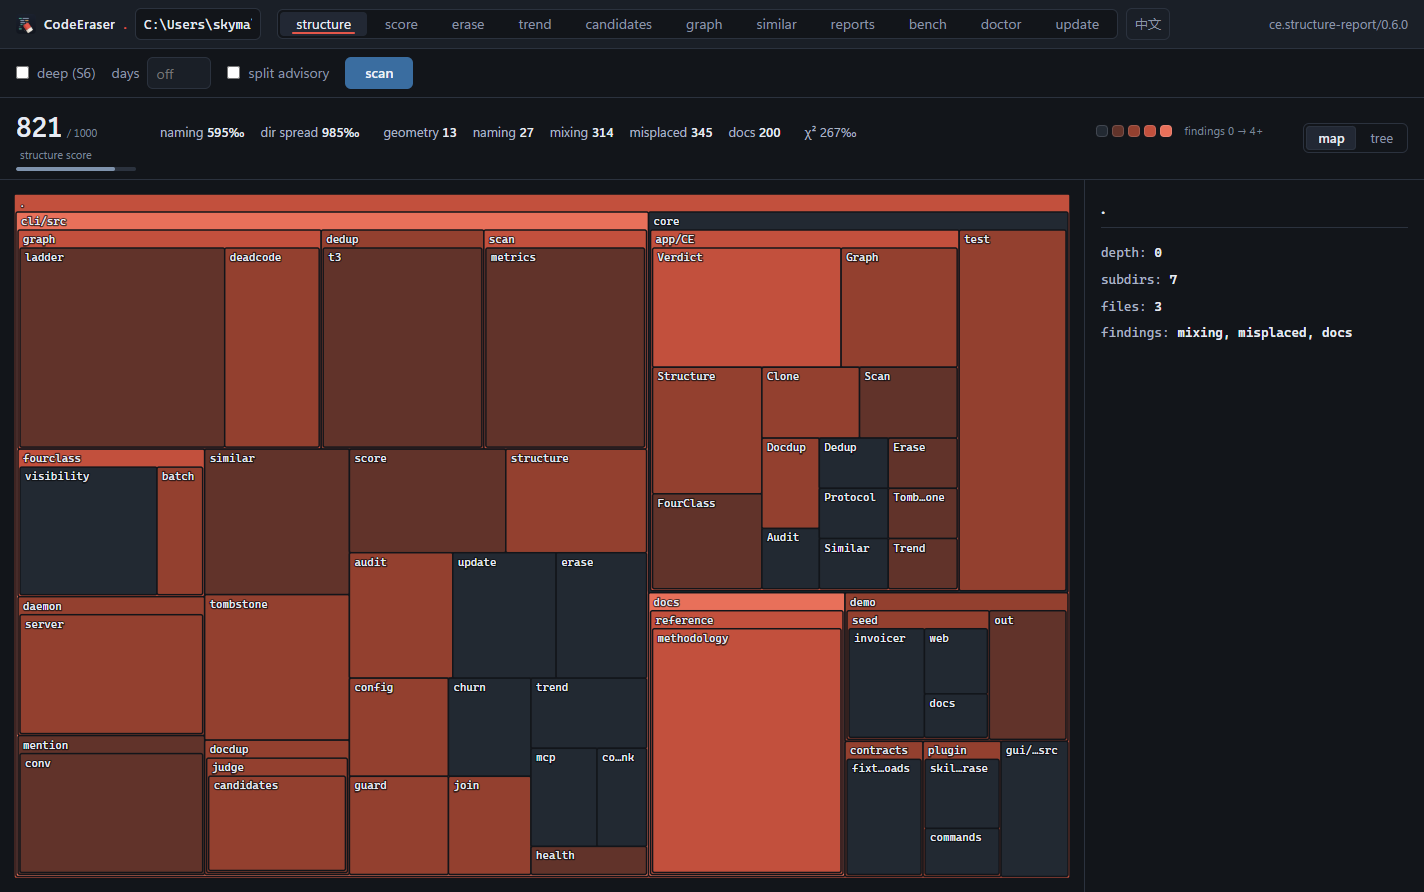
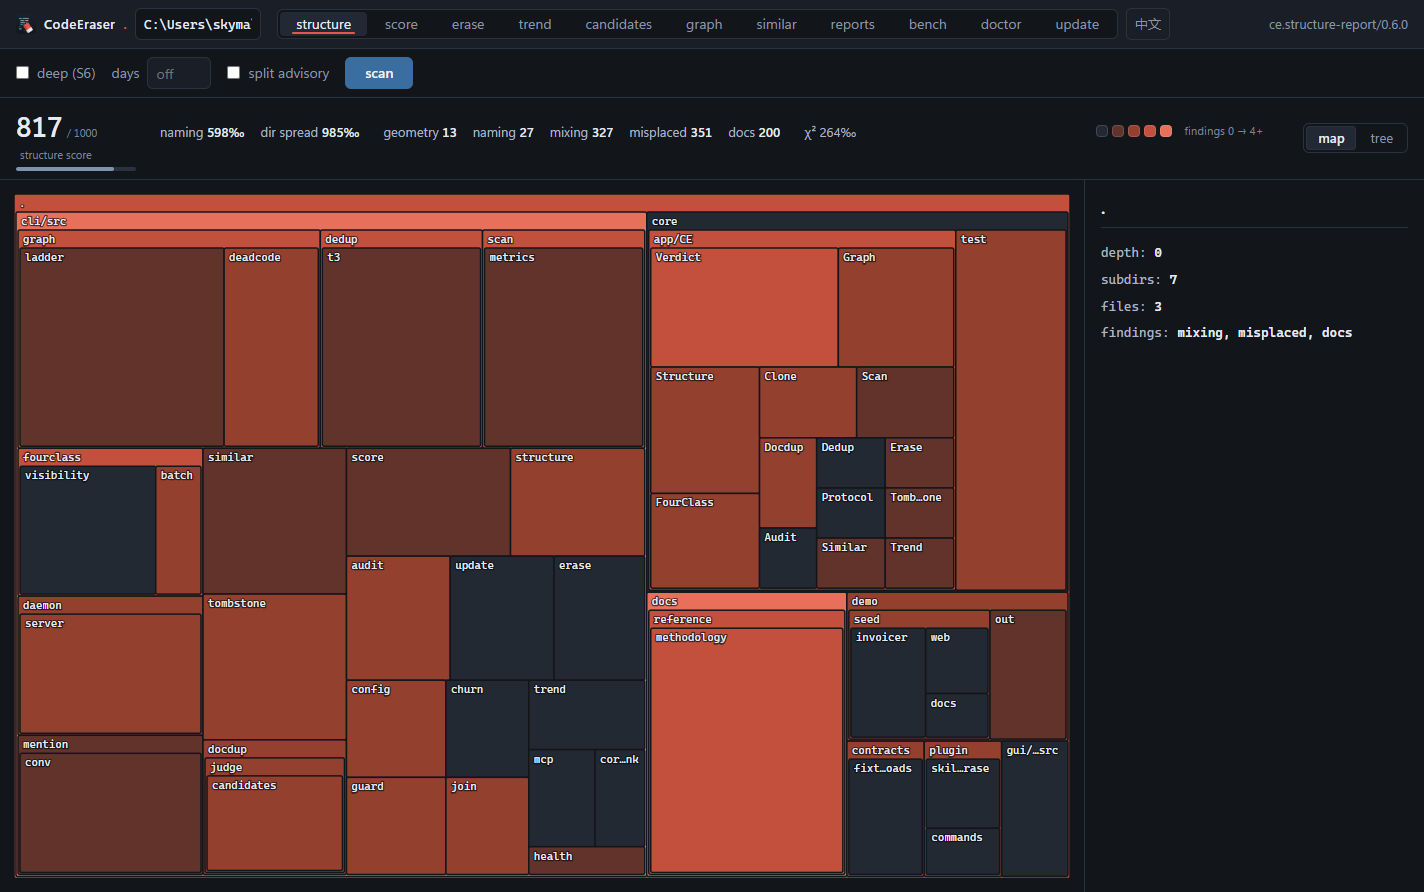
site: re-take the three GUI screenshots + add a `gui/ui` tree digest to the receipt (root fix for the CI 33995985204 red leg: the gate sees uncommitted UI changes)
- The only red leg on both platforms in 4b18210's CI 33995985204,
  `site_screenshots::the_pictures_are_no_older_than_the_screens_they_show`:
  step 8 changed the floor literal in `gui/ui/score.js` to 939, so the
  screen's commit is newer than the three screenshots; the local full run
  was green because that change was not yet committed while the ancestry leg
  reads only commits - the same illness as step 6→7, for the second time.
- Re-take: `node scripts/shoot_gui.js --out site/assets --ce <HEAD release
  ce> --root <HEAD worktree>` (the main root's shared `.ce/index.db` and the
  plugin's old binary rebuild each other, so measurement always happens in a
  worktree); the three PNGs + the `contracts/gui-shots.json` receipt follow.
- Root fix: the receipt gains `ui` = a content digest of the `gui/ui` tree
  (sha256 over `path\0content\0`, paths sorted, CRLF folded to LF - measured:
  the CRLF working tree and the LF tree from `git archive` of the same commit
  give the same digest); the tests submodule receipt leg compares against the
  current working tree and answers the same before and after the commit;
  `scripts/shoot_receipt.js` (new, 79 lines) split out of `shoot_gui.js`
  300→269 (the receipt writer + `uiDigest`).
- The RELEASE.md §3 screenshot section rewritten for the new leg split (four
  legs + the receipt leg + a sixth leg); CHANGELOG step 8 block bookkeeping
  (this block 725→729).
- Tests submodule 9f9d606→a2ecaeb: `it/site_shots_receipt.rs` new at 143
[…]

diff --git a/scripts/shoot_receipt.js b/scripts/shoot_receipt.js
@@ -1,0 +1,79 @@
+// The receipt scripts/shoot_gui.js leaves beside the pictures, read by
+// cli/tests/it/site_shots_receipt.rs: which report schemas these
+// pictures show, which bytes were actually shot, and which gui/ui tree
+// rendered them. Ancestry alone would not have caught the bug that
+// started this — the candidates screen showed `ce.join-report/0.1.0`
+// through two schema bumps without `gui/ui` changing once. The picture
+// digests tie the receipt to the pixels; without them a schema bump
+// could be answered by editing three strings here while the old picture
+// stayed on the page.
+//
+// The `ui` digest exists because the freshness leg reads COMMITS: an
+// edit to gui/ui that is not committed yet is invisible to it, so a
+// local run stayed green while the CI run on the commit went red — twice
+// (v2.29 steps 6 and 8). A digest of the tree itself answers on either
+// side of the commit. CRLF folds to LF before hashing: the Windows
+// checkout carries CRLF, the Linux one LF, and the digest must name the
+// same tree on both.
+"use strict";
+const crypto = require("crypto");
+const fs = require("fs");
+const path = require("path");
+
+/** Every file under `dir`, recursively, as repo-style relative paths in sorted order. */
+function filesUnder(dir) {
+  const out = [];
+  const walk = (at) => {
+    for (const entry of fs.readdirSync(at, { withFileTypes: true })) {
+      const full = path.join(at, entry.name);
+      if (entry.isDirectory()) walk(full);
+      else out.push(path.relative(dir, full).split(path.sep).join("/"));
+    }
+  };
+  walk(dir);
+  return out.sort();
+}
+
+/** sha256 over `<rel>\0<bytes with CRLF folded to LF>\0` for every file under `dir`. */
+function uiDigest(dir) {
+  const hash = crypto.createHash("sha256");
+  for (const rel of filesUnder(dir)) {
+    hash.update(rel + "\0");
+    hash.update(fs.readFileSync(path.join(dir, rel)).toString("latin1").replace(/\r\n/g, "\n"), "latin1");
+    hash.update("\0");
+  }
+  return hash.digest("hex");
+}
+
+/**
+ * Write the receipt — only when `out` is the directory the site serves;
+ * a shoot aimed elsewhere (a preview, a diff) must not claim to be the
+ * site's pictures. `names` are the shot basenames without extension.
+ */
+function writeReceipt({ repo, ui, site, names, view, docs, out }) {
+  const file = path.join(repo, "contracts", "gui-shots.json");
+  if (out !== site) {
+    console.log(`  receipt untouched — ${path.relative(repo, out)} is not what the site serves`);
+    return;
+  }
+  const shots = {};
+  for (const name of names) {
+    const png = fs.readFileSync(path.join(out, `${name}.png`));
+    shots[`${name}.png`] = crypto.createHash("sha256").update(png).digest("hex");
+  }
+  const body = {
+    note: "Written by scripts/shoot_gui.js; gated by cli/tests/it/site_screenshots.rs and site_shots_receipt.rs.",
+    window: [view.width, view.height],
+    shots,
+    ui: uiDigest(ui),
+    schemas: {
+      structure: docs.structure.schema,
+      join: docs.join.schema,
+      dedup: docs.dedup.schema,
+    },
+  };
+  fs.writeFileSync(file, JSON.stringify(body, null, 2) + "\n");
+  console.log(`  ${path.relative(repo, file)}`);
+}
+
+module.exports = { uiDigest, writeReceipt };

diff --git a/scripts/shoot_gui.js b/scripts/shoot_gui.js
@@ -17,8 +17,8 @@
 "use strict";
 
 const { Devtools, devtoolsUrl } = require("./cdp.js");
+const { writeReceipt } = require("./shoot_receipt.js");
 const { spawn, execFileSync } = require("child_process");
-const crypto = require("crypto");
 const fs = require("fs");
 const http = require("http");
 const os = require("os");
@@ -215,38 +215,6 @@ async function capture(cdp, out) {
   }
 }
 
-/// The receipt: which report schemas these pictures show, and which
-/// bytes were actually shot. Ancestry alone would not have caught the
-/// bug that started this — the candidates screen showed
-/// `ce.join-report/0.1.0` through two schema bumps without `gui/ui`
-/// changing once. The digests tie the receipt to the pixels; without
-/// them a schema bump could be answered by editing three strings here
-/// while the old picture stayed on the page.
-function receipt(docs, out) {
-  const file = path.join(REPO, "contracts", "gui-shots.json");
-  if (out !== SITE) {
-    console.log(`  receipt untouched — ${path.relative(REPO, out)} is not what the site serves`);
-    return;
-  }
-  const shots = {};
-  for (const shot of SHOTS) {
-    const png = fs.readFileSync(path.join(out, `${shot.name}.png`));
-    shots[`${shot.name}.png`] = crypto.createHash("sha256").update(png).digest("hex");
-  }
-  const body = {
-    note: "Written by scripts/shoot_gui.js; gated by cli/tests/it/site_screenshots.rs.",
-    window: [VIEW.width, VIEW.height],
-    shots,
-    schemas: {
-      structure: docs.structure.schema,
-      join: docs.join.schema,
-      dedup: docs.dedup.schema,
-    },
-  };
-  fs.writeFileSync(file, JSON.stringify(body, null, 2) + "\n");
-  console.log(`  ${path.relative(REPO, file)}`);
-}
-
 async function main() {
   const out = path.resolve(arg("--out", SITE));
   const root = path.resolve(arg("--root", REPO));
@@ -275,8 +243,9 @@ async function main() {
   try {
     await capture(await attach(profile, origin, root, docs), out);
     // after the pictures, so a failed shoot leaves no receipt claiming
-    // pictures it did not take
-    receipt(docs, out);
+    // pictures it did not take (scripts/shoot_receipt.js — what it
+    // records and why, the `ui` tree digest included)
+    writeReceipt({ repo: REPO, ui: UI, site: SITE, names: SHOTS.map((s) => s.name), view: VIEW, docs, out });
   } finally {
     // Cleanup must never throw: the browser keeps its profile mapped for
     // a moment after the kill, and an EBUSY raised here would REPLACE the

diff --git a/site/index.html b/site/index.html
@@ -64,7 +64,7 @@
 <!-- roast:begin -->
 <pre><span class="p">$</span> ce check --roast
 <span class="s">check score 943/1000</span> | axes 0:89 1:0 2:106 3:0 4:0 5:0 6:210 | 34 candidates
-ratchet: 0 added, 0 removed, 0 over, 0 tolerance drawn -&gt; <span class="s">pass</span>
+ratchet: 0 added, 0 removed, 0 over, 2 tolerance drawn -&gt; <span class="s">pass</span>
 note: 10 blocks collapsed into existing members, 15 intra-file pairs off the sim table
 <span class="r">roast: suspiciously clean. who did you pay?</span></pre>
 <!-- roast:end -->

diff --git a/site/zh/index.html b/site/zh/index.html
@@ -63,7 +63,7 @@
 <!-- roast:begin -->
 <pre><span class="p">$</span> ce check --lang zh --roast
 <span class="s">检查分数 943/1000</span> | 判轴 0:89 1:0 2:106 3:0 4:0 5:0 6:210 | 候选 34
-棘轮：新增 0，移除 0，超限 0，动用容差 0 -&gt; <span class="s">pass</span>
+棘轮：新增 0，移除 0，超限 0，动用容差 2 -&gt; <span class="s">pass</span>
 注：10 块并入既有成员，15 个文件内对不入相似表
 <span class="r">毒舌：干净得可疑。你贿赂谁了？</span></pre>
 <!-- roast:end -->

diff --git a/CHANGELOG.md b/CHANGELOG.md
@@ -142,6 +142,10 @@
   步 8 细则就地改。上一提交 9a90dd9（gui `cargo fmt`）落在重立之后，`site_roast` 块因此红一次（CI 33983490751）——本批重立后重 bless 修正。
 - dedup 预算 **56 → 55**（ce.toml 台账具名）：本批落下的三块全部消掉（`anchor::units_by_path` 单一所有者、`EraseProps` 两张行表、子仓 parity 腿走
   `common::write_all` / 基线单测一个闭包），其中 EraseProps 的折叠顺带化掉 6.1.0 起就在的八探针自重叠块，行集对 HEAD 工作树差分净 −1；子仓 119 恒。
+- 步 8 提交 dcbf8ba 的 CI 33995985204 双平台唯一红腿仍是 `site_screenshots::the_pictures_are_no_older_than_the_screens_they_show`
+  （`gui/ui/score.js` 的地板字面 939 让屏比图新；本地全绿因该改动尚未提交——步 6 同病第二次）：重拍三张 + **根修**——收据 `contracts/gui-shots.json`
+  加 `ui` = `gui/ui` 树内容摘要（sha256 over `路径\0内容\0`，CRLF 折 LF、两端同算），收据腿对**当前工作树**比对而不只读提交；
+  `scripts/shoot_receipt.js` 拆自 `shoot_gui.js`（300→269），子仓 `it/site_shots_receipt.rs` 拆自 `site_screenshots.rs`（333→282）。
 - ADR-006 具名重立（两仓；`ce.baseline/2` 迁移 = 离散集整体换键）：主 `cli/src/fourclass/stacking.rs` 62→75、`cli/src/erase/mod.rs` 120→130、
   `cli/src/daemon/judge.rs` 175→227、`core/app/CE/Verdict/Score.hs` 261→270、`cli/src/score/mod.rs` 398→432、CHANGELOG 707→725，新文件 `cli/src/score/anchor.rs` 158 /
   `core/test/StackingProps.hs` 48；子 `it/erase_e2e.rs` 235→269、`unit/fourclass/stacking.rs` 70→75、`it/baseline_ledgers.rs` 172→297、`it/baseline_bridge.rs` 180→210，新文件 `it/guard_budget_parity.rs` 94 / `unit/score/anchor.rs` 132 /

diff --git a/docs/RELEASE.md b/docs/RELEASE.md
@@ -81,10 +81,12 @@
 - **官网截图**：首页三张 GUI 图是**生成物**，不是手摆的窗口——
   `node scripts/shoot_gui.js --out site/assets` 用无头 Edge（即应用自己的
   WebView2 引擎）跑真 `gui/ui`，喂的是 CLI 出的三份报告文档。`gui/ui`
-  一动就得重拍：`it/site_screenshots.rs` 五腿——按 git 祖先关系拒绝比界面旧的图、
-  整窗尺寸、alt 文本不得手抄数字、`contracts/gui-shots.json` 收据里的 schema
-  必须等于代码当下的三个 `SCHEMA_ID`（界面不动而报告形状动了的那条路）、
-  `site/assets/` 每个文件都得有门认领；`it/site_shoot_motion.rs` 第六腿守住
+  一动就得重拍：`it/site_screenshots.rs` 四腿——按 git 祖先关系拒绝比界面旧的图、
+  整窗尺寸、alt 文本不得手抄数字、`site/assets/` 每个文件都得有门认领；
+  `it/site_shots_receipt.rs` 收据腿——`contracts/gui-shots.json` 里的 schema 必须等于
+  代码当下的三个 `SCHEMA_ID`（界面不动而报告形状动了的那条路），`ui` 摘要必须等于
+  当前 `gui/ui` 树（改了界面没重拍——哪怕还没提交——当场红；祖先关系那腿只读提交，
+  看不见未提交的改动）；`it/site_shoot_motion.rs` 第六腿守住
   「取景器声明 `prefers-reduced-motion` × 应用应答它」这对耦合，少一半图就不再
   可复现。重拍只在拍进 `site/assets` 时重写收据（`--out` 指仓外则不动它）。
 - **marketplace**：清单随 main 走，无独立发布步。
